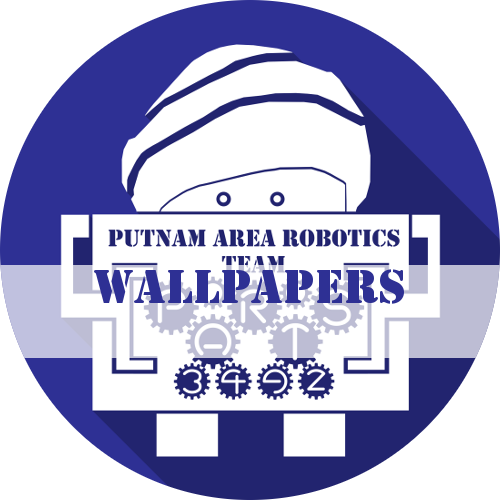
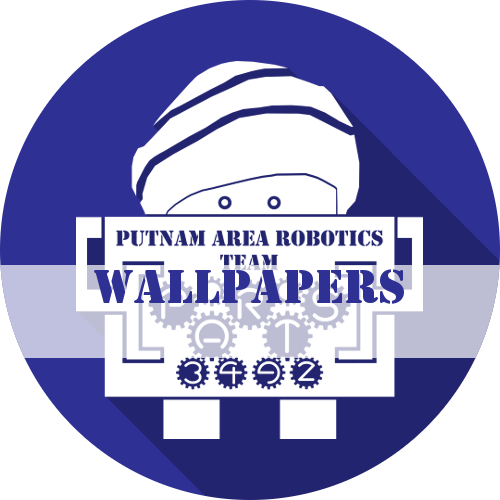
Update links and album covers

Changed region(s): [[0.12, 0.09, 1.0, 0.99]]

diff --git a/Media/Wallpapers.html b/Media/Wallpapers.html
@@ -93,17 +93,17 @@
 									<table>
 										<tr>
 											<td class="downloadLine">
-												<h2><a target="_blank" href="https://i.imgur.com/P26WvQH.png">Phone</a></h2><!--phone-->
+												<h2><a target="_blank" href="https://i.imgur.com/9NuVqer.png">Phone</a></h2><!--phone-->
 											</td>
 										</tr>
 										<tr>
 											<td class="downloadLine">
-												<h2><a target="_blank" href="https://i.imgur.com/XThe2yE.png">Tablet</a></h2><!--tab-->
+												<h2><a target="_blank" href="https://i.imgur.com/2msQEzZ.png">Tablet</a></h2><!--tab-->
 											</td>
 										</tr>
 										<tr>
 											<td>
-												<h2><a target="_blank" href="https://i.imgur.com/aBEg0f6.png">Desktop</a></h2><!--desktop-->
+												<h2><a target="_blank" href="https://i.imgur.com/iurIvui.png">Desktop</a></h2><!--desktop-->
 											</td>
 										</tr>
 									</table>
